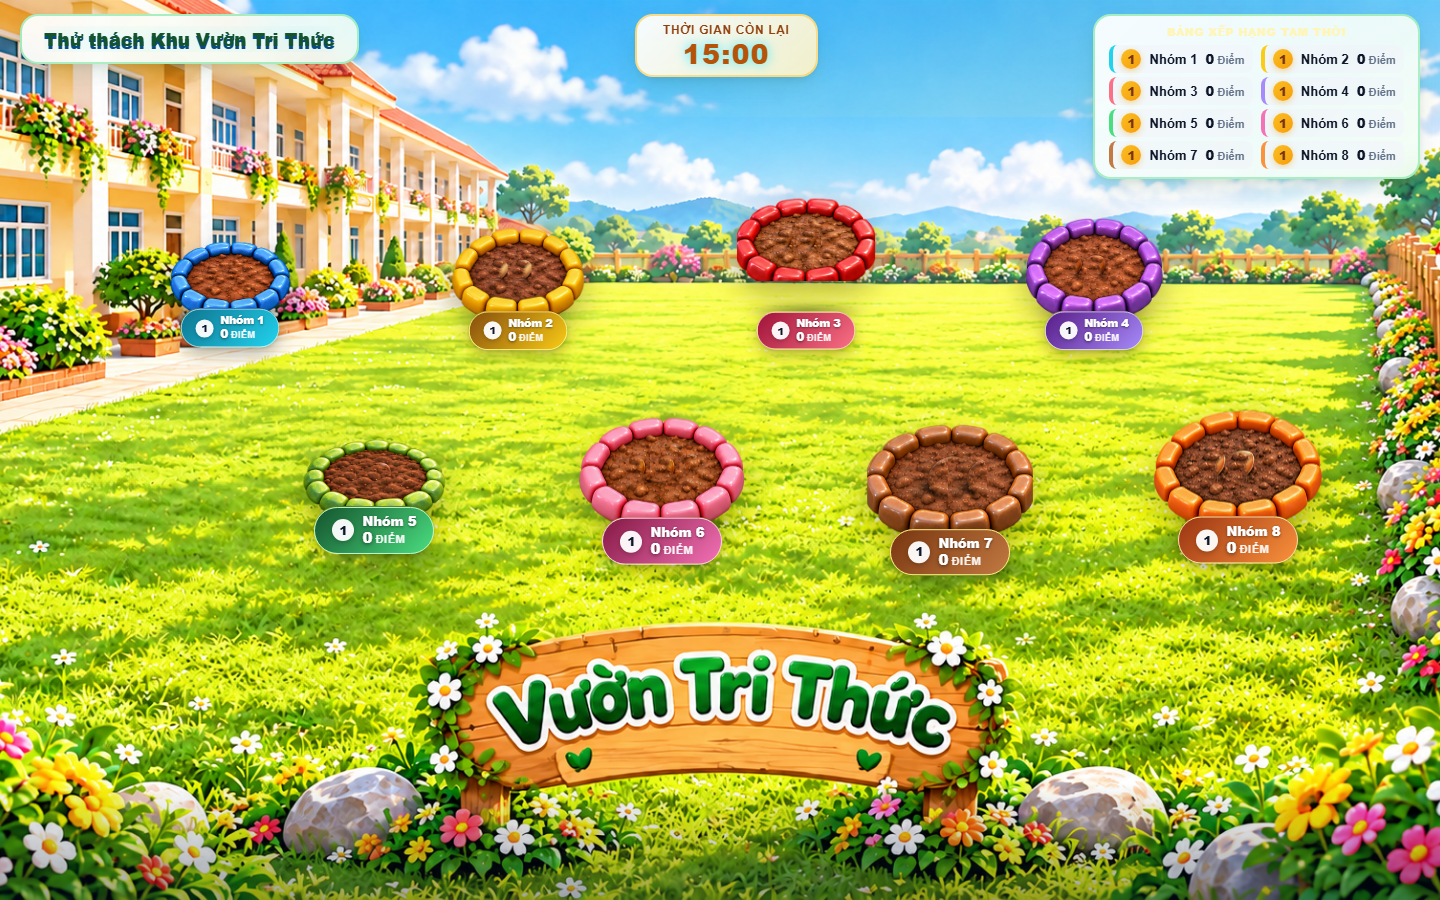
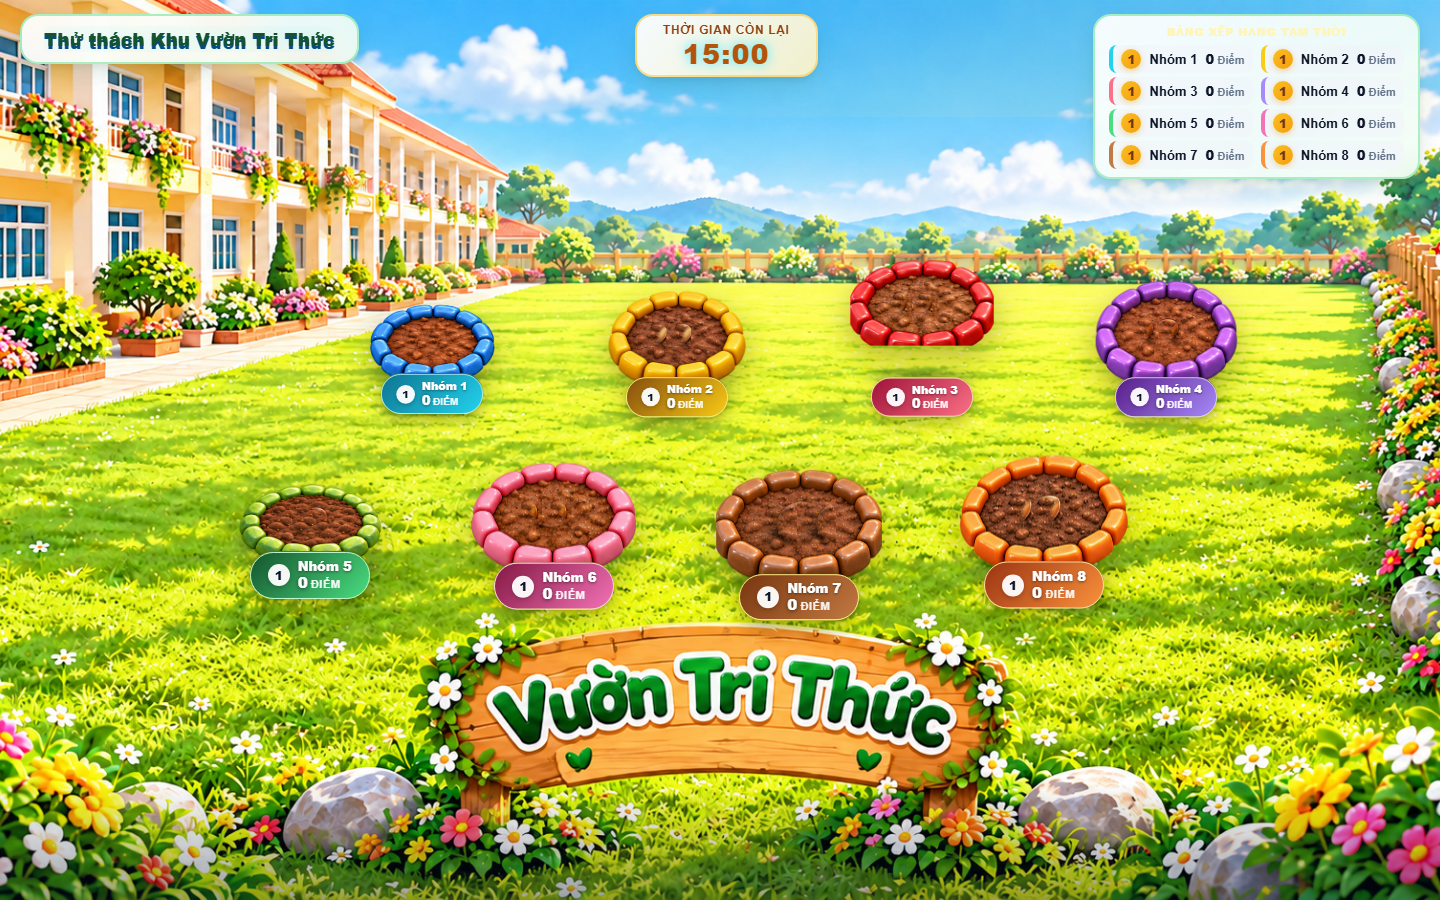
fix(team-competition): sua toa do bon cay Khu Vuon Tri Thuc va tao migration Supabase cho theme moi

Changed region(s): [[0.1562, 0.2178, 0.9375, 0.7156], [0.0938, 0.2489, 0.2188, 0.4044]]

diff --git a/src/modules/team-competition.js b/src/modules/team-competition.js
@@ -60,8 +60,16 @@
 
     function getGardenTeamPosition(teamIndex, totalTeams) {
         if (totalTeams <= 4) {
-            const leftPct = totalTeams === 1 ? 50 : 18 + (teamIndex / (totalTeams - 1)) * 64;
-            return { row: 1, topPct: 48, leftPct, scale: 0.95, zIndex: 15 };
+            const positionsByCount = {
+                1: [54],
+                2: [40, 68],
+                3: [32, 54, 76],
+                4: [26, 44, 62, 80]
+            };
+            const leftPct = (positionsByCount[totalTeams] && positionsByCount[totalTeams][teamIndex]) !== undefined
+                ? positionsByCount[totalTeams][teamIndex]
+                : (totalTeams === 1 ? 54 : 26 + (teamIndex / Math.max(1, totalTeams - 1)) * 54);
+            return { row: 1, topPct: 53, leftPct, scale: 0.95, zIndex: 15 };
         }
         let countRow1, countRow2;
         if (totalTeams === 8) { countRow1 = 4; countRow2 = 4; }
@@ -74,38 +82,37 @@
         }
         const isRow1 = teamIndex < countRow1;
         const rowIndex = isRow1 ? teamIndex : teamIndex - countRow1;
-        const rowCount = isRow1 ? countRow1 : countRow2;
 
         if (isRow1) {
             let leftPct;
             if (countRow1 === 4) {
-                const positions = totalTeams === 8 ? [16, 36, 56, 76] : [18, 38, 58, 78];
+                const positions = [30, 47, 64, 81];
                 leftPct = positions[rowIndex];
             } else if (countRow1 === 3) {
-                const positions = totalTeams === 6 ? [22, 48, 74] : [24, 49, 74];
+                const positions = [34, 56, 78];
                 leftPct = positions[rowIndex];
             } else {
-                leftPct = rowCount === 1 ? 50 : 20 + (rowIndex / (rowCount - 1)) * 60;
+                leftPct = 30 + (rowIndex / Math.max(1, countRow1 - 1)) * 50;
             }
-            return { row: 1, topPct: 37, leftPct, scale: 0.82, zIndex: 12 };
+            return { row: 1, topPct: 44, leftPct, scale: 0.85, zIndex: 12 };
         } else {
             let leftPct;
             if (countRow1 === 4 && countRow2 === 4) {
-                const positions = [26, 46, 66, 86];
+                const positions = [21.5, 38.5, 55.5, 72.5];
                 leftPct = positions[rowIndex];
             } else if (countRow1 === 4 && countRow2 === 3) {
-                const positions = [28, 48, 68];
+                const positions = [38.5, 55.5, 72.5];
                 leftPct = positions[rowIndex];
             } else if (countRow1 === 3 && countRow2 === 3) {
-                const positions = [35, 61, 87];
+                const positions = [23, 45, 67];
                 leftPct = positions[rowIndex];
             } else if (countRow1 === 3 && countRow2 === 2) {
-                const positions = [36.5, 61.5];
+                const positions = [45, 67];
                 leftPct = positions[rowIndex];
             } else {
-                leftPct = rowCount === 1 ? 50 : 28 + (rowIndex / (rowCount - 1)) * 44;
+                leftPct = 25 + (rowIndex / Math.max(1, countRow2 - 1)) * 50;
             }
-            return { row: 2, topPct: 58, leftPct, scale: 1.0, zIndex: 22 };
+            return { row: 2, topPct: 63, leftPct, scale: 1.0, zIndex: 22 };
         }
     }
 

diff --git a/src/modules/team-competition-supabase.js b/src/modules/team-competition-supabase.js
@@ -350,7 +350,7 @@
                 return 'Không thể lưu trận thi đua vì Supabase còn thiếu cột cấu hình giao diện. Bản nháp vẫn được giữ trên máy. Quản trị viên cần áp dụng migration 20260915_team_competition_presentations.sql vào đúng dự án Supabase, rồi thử lưu lại.';
             }
             if (missingThemeCheck) {
-                return 'Không thể lưu trận thi đua vì Supabase chưa cập nhật cho phép giao diện mới (mã 23514). Bản nháp vẫn được giữ trên máy. Quản trị viên cần áp dụng migration 20260922_team_competition_balloon_festival.sql vào đúng dự án Supabase, rồi thử lưu lại.';
+                return 'Không thể lưu trận thi đua vì Supabase chưa cập nhật cho phép giao diện mới (mã 23514). Bản nháp vẫn được giữ trên máy. Quản trị viên cần áp dụng migration 20260924_team_competition_knowledge_garden.sql vào đúng dự án Supabase, rồi thử lưu lại.';
             }
             if (unsupportedGroupedAnswers) {
                 return 'Không thể lưu trận thi đua vì Supabase chưa hỗ trợ câu hỏi có nhiều đáp án trong cùng một ý. Bản nháp vẫn được giữ trên máy. Quản trị viên cần áp dụng migration 20260916_team_competition_grouped_answers.sql vào đúng dự án Supabase, rồi thử lưu lại.';
